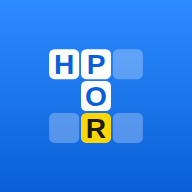
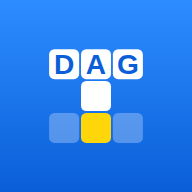
Nytt namn Dagsprov, ny ikon, licens och riktlinjer för framtida ändringar
- Appen heter nu Dagsprov i stället för HP-Korsord, så att namnet inte kan förväxlas
  med varumärket HP; ny ikon med DAG i stället för HP
- LICENSE: alla rättigheter förbehållna, fri användning via webbplatsen för eget studiebruk
- Upphovsrätt i Villkor och ansvar, löfte om samtycke i Integritet
- README: vad som kräver samtycke om appen byggs ut
- Säkerhetskopior från den gamla versionen kan fortfarande läsas in; sparade framsteg finns kvar

Claude-Session: https://claude.ai/code/session_01Mx1MCTErZzRGE5DiLsHmWn

diff --git a/index.html b/index.html
@@ -3,14 +3,14 @@
 <head>
   <meta charset="utf-8">
   <meta name="viewport" content="width=device-width, initial-scale=1, viewport-fit=cover">
-  <title>HP-Korsord</title>
+  <title>Dagsprov</title>
   <meta name="description" content="Öva inför högskoleprovet varje dag: korsord, ord, meningar, engelska och matte. Fristående och gratis.">
   <meta name="theme-color" content="#f2f2f7" media="(prefers-color-scheme: light)">
   <meta name="theme-color" content="#000000" media="(prefers-color-scheme: dark)">
   <meta name="apple-mobile-web-app-capable" content="yes">
   <meta name="mobile-web-app-capable" content="yes">
   <meta name="apple-mobile-web-app-status-bar-style" content="black-translucent">
-  <meta name="apple-mobile-web-app-title" content="HP-Korsord">
+  <meta name="apple-mobile-web-app-title" content="Dagsprov">
   <link rel="manifest" href="manifest.webmanifest">
   <meta name="format-detection" content="telephone=no, date=no, address=no, email=no">
   <link rel="icon" href="icon.svg" type="image/svg+xml">
@@ -215,7 +215,7 @@
   <div class="install-hint" id="install-hint" hidden>
     <img src="icon-180.png" alt="" width="44" height="44">
     <div class="install-text">
-      <b>Lägg HP-Korsord på hemskärmen</b>
+      <b>Lägg Dagsprov på hemskärmen</b>
       <span>Tryck på <svg viewBox="0 0 24 24" aria-label="Dela"><path d="M12 3v12M8 7l4-4 4 4"/><path d="M6 11H5a1 1 0 0 0-1 1v8a1 1 0 0 0 1 1h14a1 1 0 0 0 1-1v-8a1 1 0 0 0-1-1h-1"/></svg> och sedan <b>Lägg till på hemskärmen</b>. Då öppnas den i helskärm som en app och fungerar utan nät.</span>
     </div>
     <button class="text-btn" id="install-close">OK</button>
@@ -288,7 +288,7 @@
       <div class="set-page" data-page="root" data-title="Inställningar">
         <div class="set-hero">
           <img src="icon-180.png" alt="" width="60" height="60">
-          <div><b>HP-Korsord</b><span id="set-hero-sub">Öva inför högskoleprovet varje dag</span></div>
+          <div><b>Dagsprov</b><span id="set-hero-sub">Öva inför högskoleprovet varje dag</span></div>
         </div>
 
         <ul class="list set-list">
@@ -340,7 +340,7 @@
           <li><button class="row nav" data-push="privacy"><span class="ico" style="--c:#007aff"><svg viewBox="0 0 24 24"><path d="M12 3l7 3v5.5c0 4.4-3 8-7 9.5-4-1.5-7-5.1-7-9.5V6z"/><path d="M9 12l2 2 4-4"/></svg></span><span class="lbl">Integritet</span><span class="val">Ingen insamling</span><svg class="chev-r" viewBox="0 0 24 24" aria-hidden="true"><path d="M9 5l7 7-7 7"/></svg></button></li>
           <li><button class="row nav" data-push="legal"><span class="ico" style="--c:#8e8e93"><svg viewBox="0 0 24 24"><path d="M7 3.5h7l4 4v13H7z"/><path d="M14 3.5V8h4M9.5 12h6M9.5 15.5h6"/></svg></span><span class="lbl">Villkor och ansvar</span><svg class="chev-r" viewBox="0 0 24 24" aria-hidden="true"><path d="M9 5l7 7-7 7"/></svg></button></li>
         </ul>
-        <p class="footnote">HP-Korsord är ett fristående övningsverktyg utan koppling till Universitets- och högskolerådet (UHR), som anordnar högskoleprovet.</p>
+        <p class="footnote">Dagsprov är ett fristående övningsverktyg utan koppling till Universitets- och högskolerådet (UHR), som anordnar högskoleprovet.</p>
       </div>
 
       <!-- Utseende -->
@@ -420,12 +420,12 @@
       <div class="set-page" data-page="about" data-title="Om appen" hidden>
         <div class="about-hero">
           <img src="icon-180.png" alt="" width="84" height="84">
-          <b>HP-Korsord</b>
+          <b>Dagsprov</b>
           <span id="about-version">Version 3.0</span>
         </div>
         <ul class="list set-list" id="about-list"></ul>
         <p class="footnote">Alla frågor är egenskrivna övningsfrågor i högskoleprovets stil, inte frågor från riktiga prov. Nya korsord och omgångar kommer varje dag, och alla får samma uppgifter samma dag.</p>
-        <p class="footnote">HP-Korsord är ett fristående övningsverktyg och har ingen koppling till, och är inte godkänt av, Universitets- och högskolerådet (UHR).</p>
+        <p class="footnote">Dagsprov är ett fristående övningsverktyg och har ingen koppling till, och är inte godkänt av, Universitets- och högskolerådet (UHR).</p>
       </div>
 
       <!-- Integritet -->
@@ -438,6 +438,7 @@
           <li><b>Inga externa tjänster.</b> Appen hämtar inga typsnitt, skript eller bilder från andra webbplatser, och fungerar även utan internet när den väl har laddats.</li>
           <li><b>Webbhotellet.</b> Sidan ligger på GitHub Pages. Som för alla webbplatser kan webbhotellet tillfälligt registrera tekniska uppgifter, till exempel IP-adress, när sidan hämtas. Det styrs av GitHubs integritetspolicy.</li>
           <li><b>Säkerhetskopior.</b> En exporterad säkerhetskopia är en vanlig fil som bara du bestämmer över. Den innehåller dina framsteg och inställningar men inga personuppgifter.</li>
+          <li><b>Om något ändras.</b> Skulle appen någon gång börja samla in uppgifter uppdateras den här sidan först, och du får frågan om samtycke innan något samlas in.</li>
           <li><b>Radera allt.</b> Välj Nollställ alla framsteg i Inställningar eller rensa webbplatsdata i webbläsaren. Tar du bort appen från hemskärmen försvinner också dess data.</li>
         </ul>
       </div>
@@ -445,10 +446,11 @@
       <!-- Villkor och ansvar -->
       <div class="set-page" data-page="legal" data-title="Villkor och ansvar" hidden>
         <ul class="list legal">
-          <li><b>Fristående övningsverktyg.</b> HP-Korsord har ingen koppling till, och är inte godkänt eller granskat av, Universitets- och högskolerådet (UHR), som ansvarar för högskoleprovet. Namnet högskoleprovet används bara för att beskriva vad appen hjälper dig att öva inför.</li>
+          <li><b>Fristående övningsverktyg.</b> Dagsprov har ingen koppling till, och är inte godkänt eller granskat av, Universitets- och högskolerådet (UHR), som ansvarar för högskoleprovet. Namnet högskoleprovet används bara för att beskriva vad appen hjälper dig att öva inför.</li>
           <li><b>Eget innehåll.</b> Alla ledtrådar, meningar, engelska uppgifter och förklaringar är egenskrivna, och matteuppgifterna skapas av appen själv. Inga frågor är hämtade från publicerade högskoleprov. Uppgifterna följer bara provdelarnas upplägg (ORD, MEK, ELF, XYZ, KVA och NOG).</li>
           <li><b>För övning.</b> Innehållet är till för att öva och kan innehålla fel. Appen ger inga garantier om resultat på det riktiga provet. Officiell information om högskoleprovet finns hos UHR.</li>
           <li><b>Kostnadsfritt.</b> Appen är gratis och innehåller inga köp eller annonser.</li>
+          <li><b>Upphovsrätt.</b> © 2026 Clementinose. Appens kod, texter, frågor, ordförklaringar och grafik får inte kopieras eller återanvändas utan tillstånd. Du får använda appen fritt för eget studiebruk.</li>
           <li><b>Varumärken.</b> Apple, iPhone, iPad och Magic Keyboard är varumärken som tillhör Apple Inc. De nämns bara för att beskriva vilka enheter appen fungerar på.</li>
         </ul>
       </div>
@@ -494,7 +496,7 @@
         <li><b>Rätt eller fel.</b> Som standard får du veta om ett ord är rätt först när hela ordet är ifyllt. Det kan ändras under Inställningar.</li>
         <li><b>Missat en dag?</b> Öppna arkivet uppe till vänster.</li>
       </ul>
-      <p class="footnote">HP-Korsord är ett fristående övningsverktyg utan koppling till UHR. Alla uppgifter är egenskrivna – inga frågor är hämtade från riktiga högskoleprov.</p>
+      <p class="footnote">Dagsprov är ett fristående övningsverktyg utan koppling till UHR. Alla uppgifter är egenskrivna – inga frågor är hämtade från riktiga högskoleprov.</p>
       <button class="pill wide" data-close>Kör igång</button>
     </div>
   </dialog>

diff --git a/js/app.js b/js/app.js
@@ -2028,13 +2028,13 @@
 
   // Säkerhetskopia: exportera och återställ framsteg och inställningar som en JSON-fil.
   $("export-data").addEventListener("click", async () => {
-    const data = { app: "hp-korsord", version: 2, exported: new Date().toISOString(), progress: progressAll(), prefs: prefs() };
-    const name = `hp-korsord-${todayKey()}.json`;
+    const data = { app: "dagsprov", version: 2, exported: new Date().toISOString(), progress: progressAll(), prefs: prefs() };
+    const name = `dagsprov-${todayKey()}.json`;
     const blob = new Blob([JSON.stringify(data)], { type: "application/json" });
     try {
       const file = new File([blob], name, { type: "application/json" });
       if (matchMedia("(pointer: coarse)").matches && navigator.canShare && navigator.canShare({ files: [file] })) {
-        await navigator.share({ files: [file], title: "HP-Korsord – säkerhetskopia" });
+        await navigator.share({ files: [file], title: "Dagsprov – säkerhetskopia" });
         return;
       }
     } catch (e) { if (e && e.name === "AbortError") return; }
@@ -2051,7 +2051,7 @@
     if (!f) return;
     let data;
     try { data = JSON.parse(await f.text()); } catch { data = null; }
-    if (!data || data.app !== "hp-korsord" || typeof data.progress !== "object") { toast("Filen är ingen säkerhetskopia från HP-Korsord"); return; }
+    if (!data || !["dagsprov", "hp-korsord"].includes(data.app) || typeof data.progress !== "object") { toast("Filen är ingen säkerhetskopia från Dagsprov"); return; }
     const n = Object.keys(data.progress).length;
     if (!(await confirmBox("Återställa framsteg?", `Säkerhetskopian innehåller ${n} omgångar. Dina nuvarande framsteg på den här enheten ersätts.`, "Återställ"))) return;
     store(PROGRESS_KEY, data.progress);

diff --git a/sw.js b/sw.js
@@ -1,6 +1,6 @@
 // Offline-stöd: allt sparas vid installation. Appen startar direkt från cachen
 // och hämtar samtidigt en ny version i bakgrunden (visas nästa gång den öppnas).
-const CACHE = "hp-korsord-v15";
+const CACHE = "dagsprov-v16";
 const FILES = [
   "./", "index.html", "style.css", "js/words.js", "js/mek.js", "js/eng.js", "js/mat.js", "js/generator.js", "js/app.js",
   "icon.svg", "icon-180.png", "icon-192.png", "icon-512.png", "manifest.webmanifest",

diff --git a/style.css b/style.css
@@ -1,5 +1,5 @@
 /* =========================================================
-   HP-Korsord – iOS-inspirerad design (iPhone & iPad)
+   Dagsprov – iOS-inspirerad design (iPhone & iPad)
    Lägen:
    - Telefon stående (standard): rutnät överst, ledtråd + tangentbord i botten,
      ledtrådslistan som ark.

diff --git a/README.md b/README.md
@@ -1,6 +1,6 @@
-# HP-Korsord
+# Dagsprov
 
-Ett nytt korsord varje dag med över 2 300 egenskrivna ordförklaringar av den typ som förekommer i högskoleprovets ORD-del – med dagliga pussel på samma sätt som populära sajter för dagliga sudokun. Ledtrådarna är synonymer eller korta förklaringar, precis som på provet. Dagens korsord räknas fram ur datumet, så alla får samma korsord samma dag.
+Öva inför högskoleprovet varje dag. Ett nytt korsord varje dag med över 2 300 egenskrivna ordförklaringar av den typ som förekommer i högskoleprovets ORD-del – med dagliga pussel på samma sätt som populära sajter för dagliga sudokun. Ledtrådarna är synonymer eller korta förklaringar, precis som på provet. Dagens korsord räknas fram ur datumet, så alla får samma korsord samma dag.
 
 ## Funktioner
 
@@ -50,9 +50,21 @@ Obs: om du ändrar ordlistan kan dagarnas korsord bli andra än förut. Sparade 
 
 ## Rättigheter, integritet och ansvar
 
-- **Fristående.** HP-Korsord har ingen koppling till, och är inte godkänt av, Universitets- och högskolerådet (UHR), som anordnar högskoleprovet. Namnet högskoleprovet används bara för att beskriva vad appen övar inför.
+- **Fristående.** Dagsprov har ingen koppling till, och är inte godkänt av, Universitets- och högskolerådet (UHR), som anordnar högskoleprovet. Namnet högskoleprovet används bara för att beskriva vad appen övar inför.
 - **Eget innehåll.** Alla ledtrådar, MEK-meningar, engelska uppgifter och förklaringar är egenskrivna, och matteuppgifterna genereras av appen. Inga frågor är hämtade från publicerade högskoleprov; appen följer bara provdelarnas upplägg.
 - **Inga tredjepartsresurser.** Ikoner och grafik är egenritade. Appen laddar inga typsnitt, skript eller bilder från andra webbplatser och använder enhetens systemtypsnitt.
 - **Integritet.** Ingen inloggning, ingen analys, ingen spårning, inga annonser och inga cookies från tredje part. Framsteg och inställningar sparas bara lokalt i webbläsarens lagring (nödvändigt för att appen ska fungera) och skickas aldrig till någon server. GitHub Pages kan som webbhotell registrera tekniska uppgifter som IP-adress enligt GitHubs integritetspolicy. Allt kan raderas med *Nollställ alla framsteg* eller genom att rensa webbplatsdata.
 - **Varumärken.** Apple, iPhone, iPad och Magic Keyboard är varumärken som tillhör Apple Inc. och nämns bara för att beskriva vilka enheter appen fungerar på.
+- **Licens.** Alla rättigheter förbehållna – se [LICENSE](LICENSE). Appen får användas gratis via webbplatsen för eget studiebruk, men koden och innehållet får inte kopieras eller återanvändas utan tillstånd.
 - Samma information finns i appen under Inställningar → Integritet och Villkor och ansvar.
+
+### Om appen byggs ut
+
+Appen behöver i dag ingen cookie-banner eller samtyckesruta eftersom den inte samlar in något. Det ändras om något av följande läggs till – då krävs samtycke **innan** datan samlas in och en utförligare integritetspolicy med kontaktuppgifter till den som ansvarar:
+
+- statistik- eller analysverktyg (till exempel Google Analytics),
+- reklam eller spårningspixlar,
+- inloggning, konton eller synk mellan enheter,
+- typsnitt, skript eller bilder som hämtas från andra webbplatser (till exempel Google Fonts), eftersom de skickar besökarens IP-adress vidare.
+
+Uppdatera i så fall också sidorna Integritet och Villkor och ansvar i appen.
